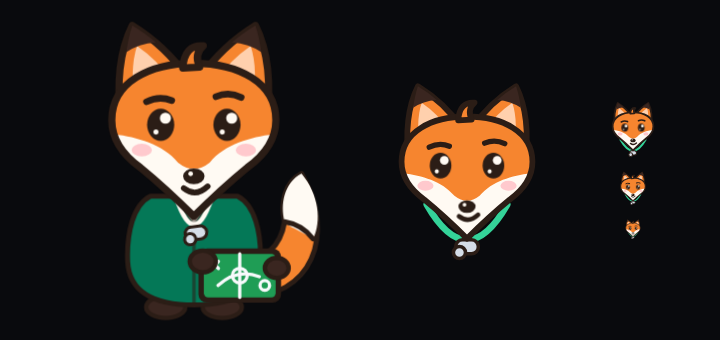
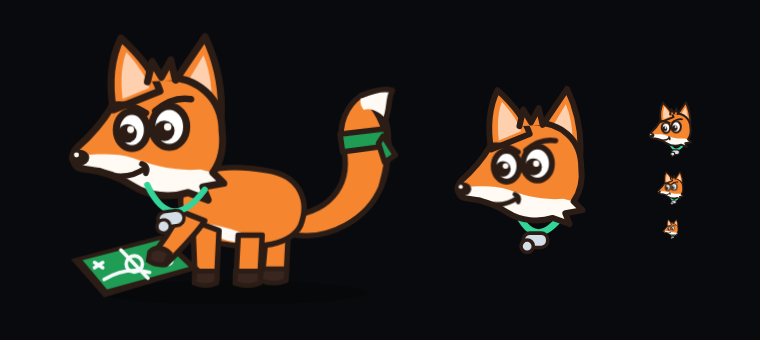
style(web): Míster fiel al diseño de referencia, zorro caricaturesco en cuatro patas

diff --git a/src/footy/web/static/mascot.js b/src/footy/web/static/mascot.js
@@ -1,53 +1,65 @@
-/* El Míster: mascota del asistente. Un zorro DT («el zorro del banco»), dibujado en SVG propio.
+/* El Míster: mascota del asistente. Un zorro DT («el zorro del banco»), dibujado en SVG propio a partir del
+   diseño de referencia: cabeza de tres cuartos con hocico largo, orejas enormes, ojos de caricatura, cejas
+   decididas y sonrisa confiada; silbato con cordón verde, tablet táctica y cinta verde en la cola.
    Dos variantes: cabeza (avatar, botón flotante, estados vacíos) y cuerpo entero (saludo del chat).
-   Colores en clases .fx-* de styles.css para calzar con el tema; animaciones solo sin «reducir movimiento». */
+   Colores en clases .fx-* de styles.css; animaciones solo sin «reducir movimiento». */
 
-// Tierno pero inconfundiblemente zorro: hocico en punta con la nariz en la punta, orejas altas con puntas oscuras,
-// ojos grandes con brillo, mechón y rubor suave. La ceja derecha más alta le da el toque pícaro de DT.
-// Cordón y silbato van aparte (en el cuerpo entero el silbato cuelga sobre la chaqueta).
-const FOX_CORD = `
-  <path class="fx-cord" d="M16 46 Q32 74 48 46"/>
-  <g class="fx-whistle"><rect class="fx-metal" x="27.5" y="60" width="9" height="5.5" rx="2.7"/><circle class="fx-metal" cx="29" cy="65" r="2.4"/></g>`;
+// Cabeza mirando a la izquierda (viewBox 0 0 64 64). El orden importa: oreja trasera, cabeza, oreja delantera.
+const FOX_HEAD_PATH = "M51 29 C51 18 43 11.5 32.5 11.5 C25 11.5 19 15 15.5 21 C12.5 26 8.5 30.5 4.5 34 " +
+  "C2 36.5 3 40.8 6.5 41 C12.5 41.6 18 43.6 22.5 46.6 C27.5 49.8 34.5 50.4 40 48.6 L46.5 51 L44.8 46.8 L51.5 45.6 " +
+  "L48 42.2 C50.6 38.6 51.6 34 51 29 Z";
 const FOX_HEAD = `
-  <g class="fx-ear fx-ear-l"><path class="fx-fur fx-line" d="M9 30 Q6.5 11 12.5 -1 Q23 5.5 30 15.5 Z"/>
-    <path class="fx-inner" d="M13.5 25 Q11.5 13 14 5.5 Q20.5 10 25 16.5 Z"/><path class="fx-tip" d="M10.6 7.5 Q11.3 2.5 12.5 -1 Q16.8 1.6 20 4.4 Q14.5 4.8 10.6 7.5 Z"/></g>
-  <g class="fx-ear fx-ear-r"><path class="fx-fur fx-line" d="M55 30 Q57.5 11 51.5 -1 Q41 5.5 34 15.5 Z"/>
-    <path class="fx-inner" d="M50.5 25 Q52.5 13 50 5.5 Q43.5 10 39 16.5 Z"/><path class="fx-tip" d="M53.4 7.5 Q52.7 2.5 51.5 -1 Q47.2 1.6 44 4.4 Q49.5 4.8 53.4 7.5 Z"/></g>
-  <path class="fx-fur" d="FACE"/>
-  <path class="fx-white" d="M6.8 33.5 C14 34.5 22 36.5 27 42.5 Q32 46.5 37 42.5 C42 36.5 50 34.5 57.2 33.5 C55.6 38 52.6 41.4 49 44 C43.5 48.5 37.5 54 32 59.5 C26.5 54 20.5 48.5 15 44 C11.4 41.4 8.4 38 6.8 33.5 Z"/>
-  <path class="fx-line" fill="none" d="FACE"/>
-  <path class="fx-fur fx-line" d="M28.5 12.5 Q29 5 35 5.5 Q32 8 33.8 12.2 Z"/>
-  <ellipse class="fx-blush" cx="15.5" cy="38.5" rx="3.2" ry="2"/><ellipse class="fx-blush" cx="48.5" cy="38.5" rx="3.2" ry="2"/>
-  <path class="fx-brow" d="M17 23.2 Q21 21.2 25 22.8 M39 21.6 Q43 19.8 47 21.8"/>
-  <g class="fx-eyes"><ellipse class="fx-ink" cx="21.5" cy="30.5" rx="4.3" ry="5.1"/><ellipse class="fx-ink" cx="42.5" cy="30.5" rx="4.3" ry="5.1"/>
-    <circle class="fx-white" cx="23" cy="28.4" r="1.75"/><circle class="fx-white" cx="44" cy="28.4" r="1.75"/>
-    <circle class="fx-white" cx="20" cy="32.8" r=".8"/><circle class="fx-white" cx="41" cy="32.8" r=".8"/></g>
-  <ellipse class="fx-ink" cx="32" cy="46.8" rx="3.4" ry="2.5"/><circle class="fx-white" cx="31" cy="46" r=".75"/>
-  <path class="fx-smile" d="M28.8 50.6 Q32.6 53.6 36.4 50"/>`.replaceAll("FACE", "M6 29 C6 17 18 11 32 11 C46 11 58 17 58 29 C58 35 54.5 40 49 44 C43.5 48.5 37.5 54 32 59.5 C26.5 54 20.5 48.5 15 44 C9.5 40 6 35 6 29 Z");
+  <g class="fx-ear fx-ear-r"><path class="fx-fur fx-line" d="M33 17 L45.5 -1.5 C49.5 7 51.5 16 50.5 26 Z"/>
+    <path class="fx-inner" d="M37.5 17 L45 4.5 C47.4 10.5 48 16.5 47.3 22.5 Z"/></g>
+  <path class="fx-fur" d="${FOX_HEAD_PATH}"/>
+  <path class="fx-white" d="M4.2 36.6 C10.5 36.4 17 35.6 22.5 37.6 C28.5 39.8 35 41.8 44 41.2 L48 42.2 L51.5 45.6 L44.8 46.8 L46.5 51 L40 48.6 C34.5 50.4 27.5 49.8 22.5 46.6 C18 43.6 12.5 41.6 6.5 41 C4 40.8 3.2 38.6 4.2 36.6 Z"/>
+  <path class="fx-line" fill="none" d="${FOX_HEAD_PATH}"/>
+  <g class="fx-ear fx-ear-l"><path class="fx-fur fx-line" d="M16 22 C14.5 13 15.5 5 18.5 -1 C24.5 4.5 29 10 31 16 Z"/>
+    <path class="fx-inner" d="M19 18.5 C18.2 12 18.8 7 20.2 3.5 C23.8 7.5 26.4 11 27.6 15 Z"/></g>
+  <path class="fx-fur fx-line" d="M27 13 L28.5 6.5 L31.5 11.5 L34.5 6 L36 12.5"/>
+  <g class="fx-eyes">
+    <ellipse class="fx-sclera fx-line" cx="22" cy="28.5" rx="5" ry="6"/><ellipse class="fx-sclera fx-line" cx="34" cy="27.5" rx="5.6" ry="6.6"/>
+    <circle class="fx-ink" cx="20.6" cy="29.6" r="3"/><circle class="fx-ink" cx="32.4" cy="28.8" r="3.3"/>
+    <circle class="fx-white" cx="21.6" cy="28.4" r="1.1"/><circle class="fx-white" cx="33.5" cy="27.5" r="1.2"/></g>
+  <path class="fx-brow" d="M15.5 20.5 Q21 19.6 26.5 23 M29.5 22.4 Q35 17.6 41 18.6"/>
+  <ellipse class="fx-ink" cx="5" cy="37.4" rx="3.3" ry="2.6"/><circle class="fx-white" cx="4.2" cy="36.5" r=".8"/>
+  <path class="fx-smile" d="M11.5 41.6 Q19.5 45.6 26.5 40.6 M25.2 39.4 Q27.4 40.2 26.5 42.4"/>`;
+// Cordón verde y silbato bajo el hocico (solo en la cabeza suelta; el cuerpo entero lleva el suyo).
+const FOX_CORD = `
+  <path class="fx-cord" d="M26 46 Q33 62 44 47"/>
+  <g class="fx-whistle"><rect class="fx-metal" x="28.5" y="54.5" width="9.5" height="5.6" rx="2.6"/><circle class="fx-metal" cx="30" cy="59.6" r="2.4"/></g>`;
 
-// Cuerpo chibi: cabeza grande sobre un cuerpo pequeño y redondo, patitas, cola esponjosa y pizarra táctica.
+// Cuerpo en cuatro patas (viewBox 0 0 140 112): pata delantera sobre la tablet táctica, cola en alto con cinta verde.
 const FOX_BODY = `
-  <g class="fx-tail"><path class="fx-fur fx-line" d="M84 122 C116 124 128 94 112 66 C104 70 102 80 104 88 C102 100 94 106 82 108 Z"/>
-    <path class="fx-white" d="M112 66 C120 76 121 88 117 96 C111 92 105 90 104 88 C102 80 104 70 112 66 Z"/>
-    <path class="fx-line" fill="none" d="M104 88 C110 89 114 92 117 96"/></g>
-  <ellipse class="fx-paw" cx="49" cy="127" rx="9" ry="5"/><ellipse class="fx-paw" cx="75" cy="127" rx="9" ry="5"/>
-  <path class="fx-jacket fx-line" d="M42 76 C34 80 31 93 31.5 106 Q32.5 126 62 126 Q91.5 126 92.5 106 C93 93 90 80 82 76 Z"/>
-  <path class="fx-white" d="M53 75 L62 89 L71 75 Z"/>
-  <path class="fx-seam" d="M53 75 L62 89 L71 75 M62 89 L62 125"/>
-  <path class="fx-cord" d="M54 77 Q62 101 70 77"/>
-  <g class="fx-whistle fx-whistle-body"><rect class="fx-metal" x="57.5" y="90" width="10" height="6" rx="3"/><circle class="fx-metal" cx="59.5" cy="95.5" r="2.6"/></g>
-  <g class="fx-board"><rect class="fx-ink" x="64" y="100" width="38" height="25" rx="4"/><rect class="fx-pitch" x="66.5" y="102.5" width="33" height="20" rx="2"/>
-    <path class="fx-chalk" d="M83 102.5 V122.5 M70 106 l3.2 3.2 m0 -3.2 l-3.2 3.2 M73 117 Q82 109 92 113"/><circle class="fx-chalk" cx="83" cy="112.5" r="3.4"/>
-    <circle class="fx-chalk" cx="94.5" cy="117" r="2.2"/></g>
-  <ellipse class="fx-paw" cx="66" cy="106" rx="6" ry="5"/>
-  <ellipse class="fx-paw" cx="100" cy="109" rx="5.5" ry="4.6"/>
-  <g transform="translate(15.5 -1) scale(1.45)">${FOX_HEAD}</g>`;
+  <ellipse class="fx-shadow" cx="72" cy="106" rx="56" ry="5"/>
+  <g class="fx-tail">
+    <path class="fx-fur fx-line" d="M96 74 C114 72 122 60 118 44 C116 36 120 28 126 24 C136 32 140 48 134 62 C128 76 112 84 98 82 Z"/>
+    <path class="fx-white" d="M126 24 C131 22 136 21 139 22 C137 26 138 30 136 34 C134 31 130 29 127 30 C125.4 28 125.4 26 126 24 Z"/>
+    <path class="fx-line" fill="none" d="M126 24 C131 22 136 21 139 22 C137 26 138 30 136 34 C138 40 138 48 134 62"/>
+    <path class="fx-band fx-line" d="M117 40 L136 38 L137.5 45 L118 47.5 Z"/>
+    <path class="fx-band fx-line" d="M135 41 L140 49 L135.5 52 L133 44 Z"/></g>
+  <path class="fx-leg fx-fur fx-line" d="M86 78 L84 100 L94 100 L95 80 Z"/>
+  <path class="fx-paw" d="M83.6 96 L94.3 96 L94 101 Q89 103 83.4 101 Z"/>
+  <path class="fx-fur fx-line" d="M50 66 C52 54 68 52 86 55 C100 57 104 68 100 78 C96 86 82 88 70 86 C58 85 49 78 50 66 Z"/>
+  <path class="fx-white" d="M56 76 C62 84 74 86 84 85 C76 80 66 78 56 76 Z"/>
+  <path class="fx-leg fx-fur fx-line" d="M74 82 L73 101 L83 101 L84 82 Z"/>
+  <path class="fx-paw" d="M72.8 97 L83.2 97 L83 102 Q78 104 72.6 102 Z"/>
+  <path class="fx-leg fx-fur fx-line" d="M55 76 L56 101 L65 101 L66 80 Z"/>
+  <path class="fx-paw" d="M55.8 97 L65.2 97 L65 102 Q60 104 55.6 102 Z"/>
+  <g class="fx-board"><path class="fx-ink" d="M4 92 L42 82 L58 96 L18 108 Z"/><path class="fx-pitch" d="M9 92.4 L41.6 84 L53.4 95.2 L19.2 104.6 Z"/>
+    <path class="fx-chalk" d="M25 88.2 L36.3 99.9 M14 93.4 l3.4 2.2 m0 -2.2 l-3.4 2.2 M18 100.5 Q27 95 37 97.5"/>
+    <circle class="fx-chalk" cx="30.6" cy="94" r="3.4"/><circle class="fx-chalk" cx="44.5" cy="92.4" r="1.8"/></g>
+  <path class="fx-leg fx-fur fx-line" d="M50 72 C46 80 42 86 38 90 L44 94 C50 88 56 82 60 76 Z"/>
+  <path class="fx-paw" d="M37 89 C39 86.6 43 87 45.5 89.6 L43.4 94.4 Q39 94.6 36.4 92.6 Z"/>
+  <g transform="translate(1 1) scale(1.3)">${FOX_HEAD}</g>
+  <path class="fx-cord" d="M36 61 Q46 82 60 63"/>
+  <g class="fx-whistle fx-whistle-body"><rect class="fx-metal" x="40" y="72" width="11" height="6.4" rx="3.2"/><circle class="fx-metal" cx="42" cy="78" r="2.8"/></g>`;
 
 function misterFace(size = 32, extra = "") {
-  return `<svg class="mister mister-face ${extra}" width="${size}" height="${size}" viewBox="1 -3.5 62 71.5" aria-hidden="true" focusable="false">${FOX_CORD}${FOX_HEAD}</svg>`;
+  return `<svg class="mister mister-face ${extra}" width="${size}" height="${size}" viewBox="0 -3 56 66" aria-hidden="true" focusable="false">${FOX_CORD}${FOX_HEAD}</svg>`;
 }
-function misterFull(size = 96, extra = "") {
-  return `<svg class="mister mister-full ${extra}" width="${size}" height="${Math.round(size * 136 / 124)}" viewBox="0 -4 124 136" aria-hidden="true" focusable="false">${FOX_BODY}</svg>`;
+function misterFull(size = 120, extra = "") {
+  return `<svg class="mister mister-full ${extra}" width="${size}" height="${Math.round(size * 118 / 142)}" viewBox="0 -4 142 118" aria-hidden="true" focusable="false">${FOX_BODY}</svg>`;
 }
 // Frase con el Míster para estados vacíos: el texto lo pone quien llama (siempre un hecho del sistema, sin cifras inventadas).
 function misterQuote(text, size = 44) {

diff --git a/src/footy/web/static/styles.css b/src/footy/web/static/styles.css
@@ -1647,12 +1647,14 @@ section.view > .trust-hidden { display: none; }
 .mister .fx-ink { fill: #2b1d16; }
 .mister .fx-blush { fill: #ff8fa0; opacity: .45; }
 .mister .fx-tip { fill: #3a2620; }
+.mister .fx-sclera { fill: #ffffff; stroke-width: 1.3; }
+.mister .fx-band { fill: #1f9d55; stroke-width: 1.6; }
+.mister .fx-shadow { fill: #000; opacity: .18; }
 .mister .fx-paw { fill: #3a2620; stroke: #2b1d16; stroke-width: 2; }
 .mister .fx-line { stroke: #2b1d16; stroke-width: 2.3; stroke-linejoin: round; stroke-linecap: round; }
 .mister .fx-brow, .mister .fx-smile { fill: none; stroke: #2b1d16; stroke-width: 2.1; stroke-linecap: round; stroke-linejoin: round; }
 .mister .fx-smile { stroke-width: 1.8; }
 .mister .fx-cord { fill: none; stroke: var(--accent); stroke-width: 2.6; stroke-linecap: round; }
-.mister-full .fx-cord { stroke: #fffaf3; stroke-width: 2.2; }
 .mister .fx-metal { fill: #d5dde7; stroke: #2b1d16; stroke-width: 1.4; }
 .mister .fx-jacket { fill: var(--accent-fill); }
 .mister .fx-seam { fill: none; stroke: #2b1d16; stroke-width: 1.6; stroke-linejoin: round; opacity: .55; }
@@ -1668,6 +1670,10 @@ section.view > .trust-hidden { display: none; }
 .msg-intro { display: flex; align-items: flex-end; gap: 10px; }
 .msg-intro .intro-mister { flex: none; }
 .msg-intro .msg-text { flex: 1; }
+@media (max-width: 560px) {
+  .msg-intro { flex-direction: column; align-items: flex-start; gap: 4px; }
+  .msg-intro .intro-mister .mister { width: 92px; height: auto; }
+}
 .brief-mister { display: inline-grid; place-items: center; width: 34px; height: 34px; margin-right: 8px; border-radius: 50%;
   background: var(--accent-soft); vertical-align: middle; overflow: hidden; padding-top: 3px; }
 #brief-title { display: flex; align-items: center; }

diff --git a/src/footy/web/static/index.html b/src/footy/web/static/index.html
@@ -463,7 +463,7 @@
     <button type="button" class="td-close chat-close" aria-label="Cerrar el chat con el Míster">×</button>
   </header>
   <div class="chat-log" aria-live="polite">
-    <div class="msg bot msg-intro"><span class="intro-mister" data-mister="full" data-size="84"></span><div class="msg-text">Aquí el Míster. En este equipo los números mandan, no la camiseta. Pregúntame por un partido, la tabla, cómo llega un equipo o si hay alguna cuota con valor.</div></div>
+    <div class="msg bot msg-intro"><span class="intro-mister" data-mister="full" data-size="112"></span><div class="msg-text">Aquí el Míster. En este equipo los números mandan, no la camiseta. Pregúntame por un partido, la tabla, cómo llega un equipo o si hay alguna cuota con valor.</div></div>
   </div>
   <div class="chat-suggest">
     <button type="button" class="chip">¿Qué apuestas con valor hay hoy?</button>

diff --git a/README.md b/README.md
@@ -67,7 +67,8 @@ Colo Colo?»): el apelativo se quita antes de decidir la consulta. La personalid
 (`footy_agents/persona.py`) y cambia solo el tono: las reglas de cifras, valor y riesgo mandan sobre el estilo. El
 saludo o «¿quién eres?» recibe una presentación fija, sin LLM.
 
-Su mascota es un zorro DT, «el zorro del banco»: silbato al cuello y pizarra táctica en la mano. Es un SVG propio
+Su mascota es un zorro DT, «el zorro del banco»: orejas enormes, cejas decididas, silbato con cordón verde, tablet
+táctica bajo la pata y cinta verde en la cola. Es un SVG propio
 (`static/mascot.js`) con dos variantes, la cabeza para tamaños chicos (botón del chat, avatar, resumen del día, avisos)
 y el cuerpo entero para el saludo. Parpadea, mira a los lados mientras piensa la respuesta y respeta «reducir
 movimiento».
